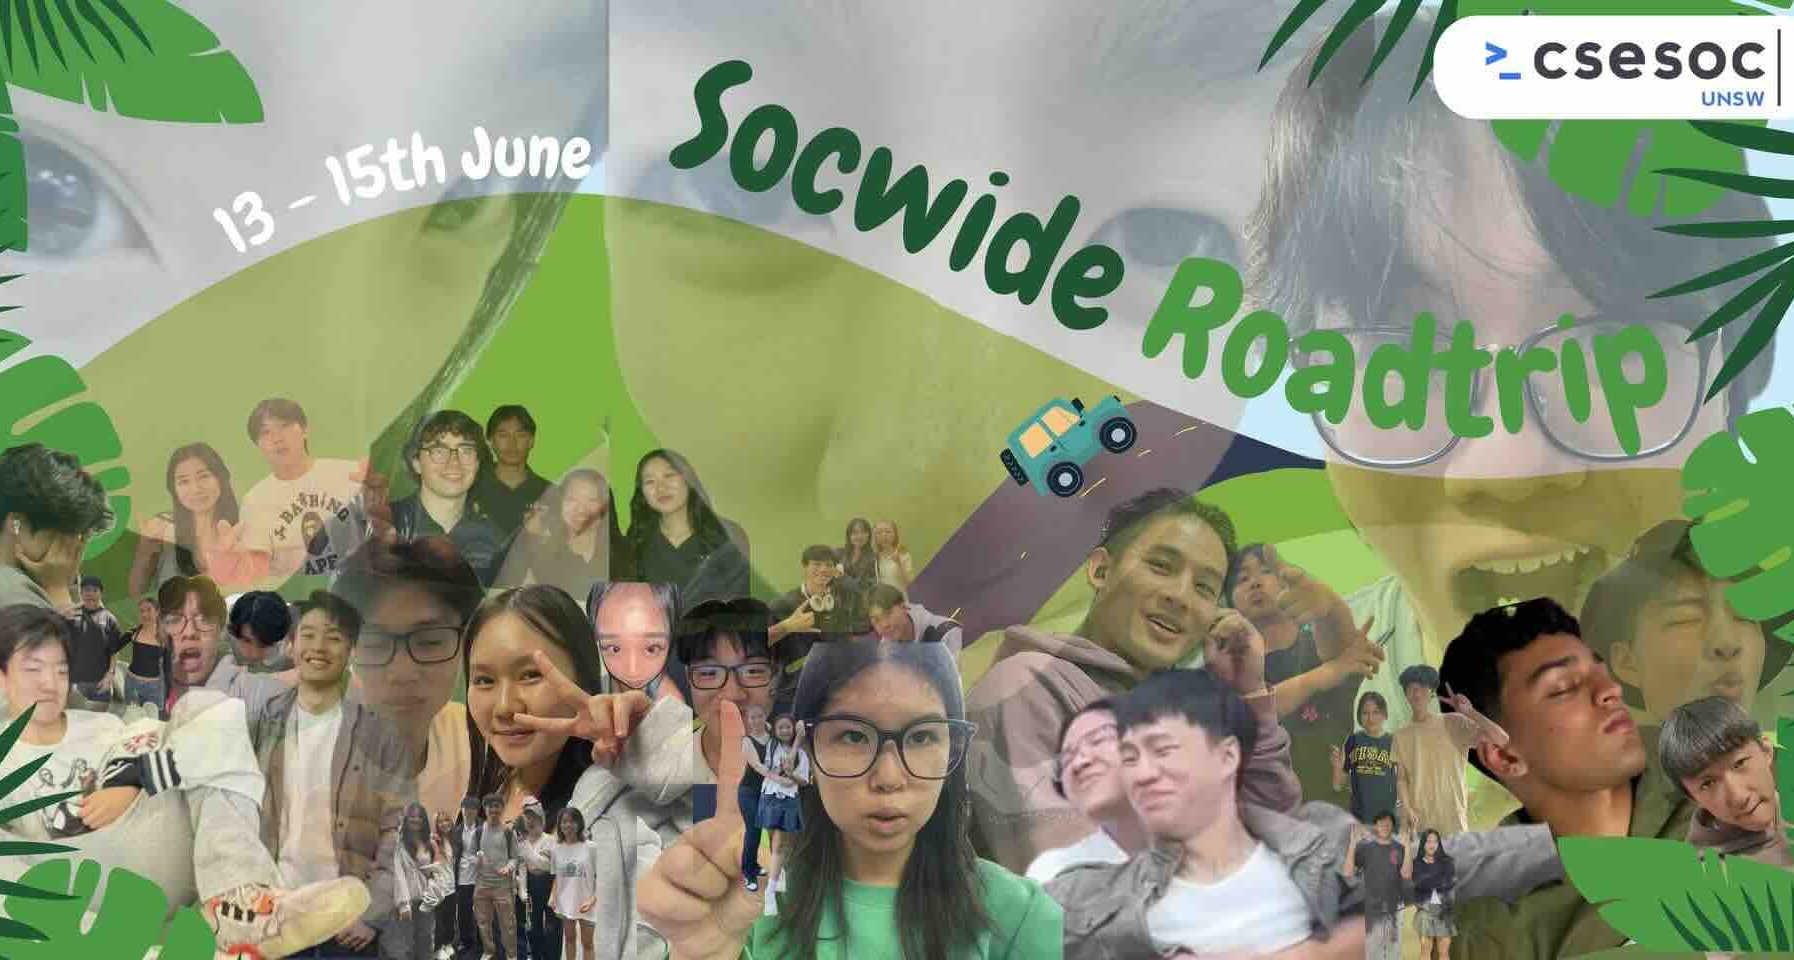
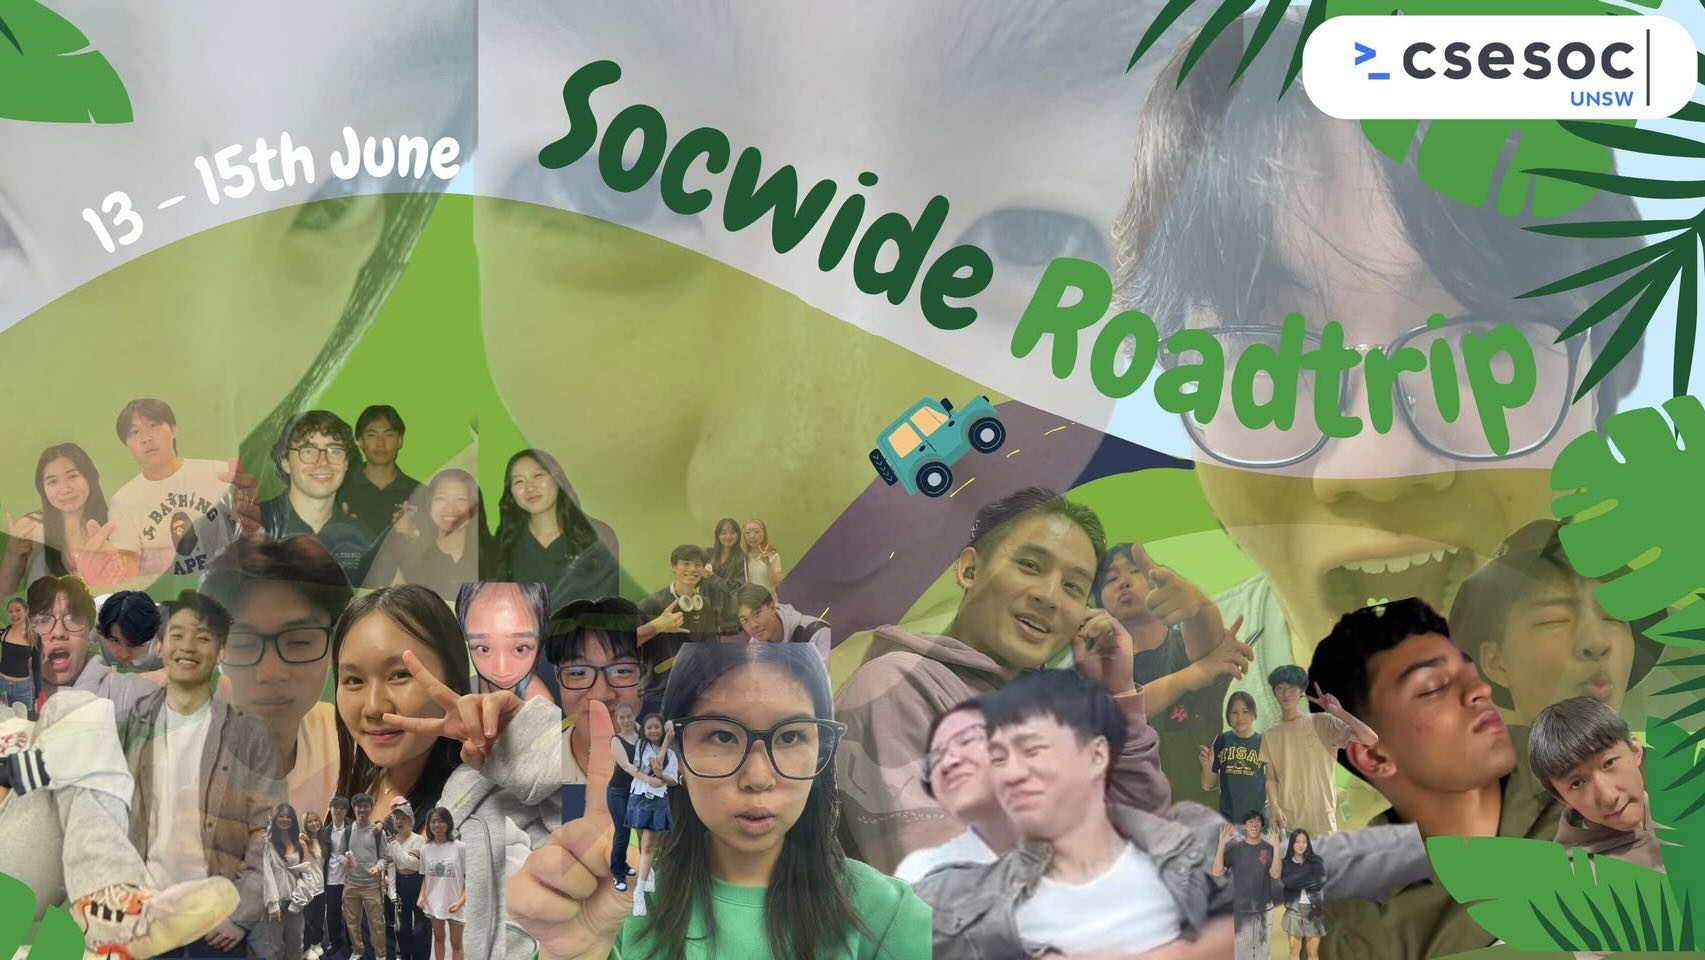
Fixing images + basic styling

diff --git a/css/style.css b/css/style.css
@@ -489,7 +489,7 @@ body.lightbox-open { overflow: hidden; }
 .memory-lightbox-content { position: relative; z-index: 1; width: min(900px,90vw); max-height: 90vh; display: flex; flex-direction: column; align-items: center; }
 .memory-lightbox-content img { display: block; max-width: 100%; max-height: 78vh; width: auto; height: auto; object-fit: contain; border-radius: 4px; box-shadow: 0 20px 60px rgba(0,0,0,.3); }
 .memory-lightbox-caption { margin-top: 16px; color: white; font-size: 15px; line-height: 1.5; text-align: center; max-width: 750px; text-shadow: 0 1px 3px rgba(0,0,0,.35); }
-.memory-lightbox-close { position: absolute; top: -44px; right: -4px; width: 36px; height: 36px; padding: 0; border: 0; background: transparent; color: white; font-size: 34px; font-weight: 300; line-height: 1; cursor: pointer; z-index: 2; }
+.memory-lightbox-close { display: none; position: absolute; top: -44px; right: -4px; width: 36px; height: 36px; padding: 0; border: 0; background: transparent; color: white; font-size: 34px; font-weight: 300; line-height: 1; cursor: pointer; z-index: 2; }
 .memory-lightbox-close:hover { opacity: .7; }
 @media (max-width:700px) { .memory-lightbox { padding:25px; } .memory-lightbox-content { width:94vw; } .memory-lightbox-content img { max-height:72vh; } .memory-lightbox-close { top:-42px; right:0; } .memory-lightbox-caption { font-size:14px; margin-top:12px; } }
 
@@ -564,19 +564,37 @@ body.lightbox-open { overflow: hidden; }
 .event-lightbox-button { grid-row: 2; flex: 0 0 44px; width: 44px; height: 44px; border: 1px solid rgba(255,255,255,.35); border-radius: 50%; background: rgba(255,255,255,.88); color: #536475; font-size: 20px; line-height: 1; cursor: pointer; z-index: 2; transition: background .2s ease, color .2s ease, opacity .2s ease; }
 .event-lightbox-button:hover:not(:disabled) { background: #263b4b; color: white; }
 .event-lightbox-button:disabled { opacity: .25; cursor: default; }
-.event-lightbox-close { position: absolute; top: -50px; right: 0; width: 38px; height: 38px; padding: 0; border: 0; background: transparent; color: white; font-size: 36px; font-weight: 300; line-height: 1; cursor: pointer; z-index: 3; }
+.event-lightbox-close { display: none; position: absolute; top: -50px; right: 0; width: 38px; height: 38px; padding: 0; border: 0; background: transparent; color: white; font-size: 36px; font-weight: 300; line-height: 1; cursor: pointer; z-index: 3; }
 .event-lightbox-close:hover { opacity: .7; }
-.event-lightbox-counter {
+.event-lightbox-dots {
     grid-column: 2;
     grid-row: 3;
-    position: static;
-    transform: none;
-    justify-self: center;
-    margin-top: 13px;
-    color: rgba(255,255,255,.78);
-    font-size: 13px;
-    letter-spacing: .5px;
-    text-shadow: 0 1px 3px rgba(0,0,0,.35);
+    display: flex;
+    align-items: center;
+    justify-content: center;
+    gap: 7px;
+    margin-top: 15px;
+}
+
+.event-lightbox-dot {
+    width: 7px;
+    height: 7px;
+    padding: 0;
+    border: 0;
+    border-radius: 999px;
+    background: rgba(255,255,255,.48);
+    cursor: pointer;
+    transition: width .25s ease, height .25s ease, background .25s ease, transform .25s ease;
+}
+
+.event-lightbox-dot:hover {
+    background: rgba(255,255,255,.8);
+}
+
+.event-lightbox-dot.active {
+    width: 22px;
+    height: 7px;
+    background: white;
 }
 @media (max-width:700px) {
     .event-lightbox { padding: 25px; }
@@ -592,7 +610,7 @@ body.lightbox-open { overflow: hidden; }
     .event-lightbox-button { flex-basis: 34px; width: 34px; height: 34px; font-size: 15px; }
     .event-lightbox-track img { height: 100%; }
     .event-lightbox-close { top: -45px; right: 0; }
-    .event-lightbox-counter { margin-top: 10px; }
+    .event-lightbox-dots { margin-top: 12px; gap: 6px; } .event-lightbox-dot { width: 6px; height: 6px; } .event-lightbox-dot.active { width: 18px; height: 6px; }
 }
 
 
@@ -760,6 +778,7 @@ body.lightbox-open { overflow: hidden; }
 }
 
 .intro-video-lightbox-close {
+    display: none;
     position: absolute;
     top: -48px;
     right: -4px;
@@ -795,6 +814,7 @@ body.lightbox-open { overflow: hidden; }
     }
 
     .intro-video-lightbox-close {
+    display: none;
         top: -44px;
         right: 0;
     }

diff --git a/index.html b/index.html
@@ -197,7 +197,7 @@
             <h2>Events + Initiatives</h2>
 
             <p>
-                Here are some events that HR have hosted over the past two years:
+                Here are some events that HR have hosted over the past two years (you can click on the images):
             </p>
 
             <div class="events-gallery" aria-label="Events and initiatives">
@@ -473,7 +473,7 @@
             <button class="event-lightbox-button next" type="button"
                     aria-label="Next photo">&#10095;</button>
 
-            <div class="event-lightbox-counter" id="eventLightboxCounter">1 / 5</div>
+            <div class="event-lightbox-dots" id="eventLightboxDots" aria-label="Photo navigation"></div>
         </div>
     </div>
 
@@ -534,7 +534,7 @@
         const eventLightboxBackdrop = eventLightbox.querySelector('.event-lightbox-backdrop');
         const eventPrevButton = eventLightbox.querySelector('.event-lightbox-button.prev');
         const eventNextButton = eventLightbox.querySelector('.event-lightbox-button.next');
-        const eventCounter = document.getElementById('eventLightboxCounter');
+        const eventDots = document.getElementById('eventLightboxDots');
 
         // Change these filenames to the images belonging to each event.
         // Each inner array represents ONE event's carousel.
@@ -681,8 +681,16 @@
             eventLightboxTrack.style.transform =
                 `translateX(-${eventCurrentIndex * 100}%)`;
 
-            eventCounter.textContent =
-                `${eventCurrentIndex + 1} / ${currentEventPhotos.length}`;
+            eventDots.innerHTML = currentEventPhotos.map((_, index) =>
+                `<button class="event-lightbox-dot${index === eventCurrentIndex ? ' active' : ''}" type="button" aria-label="Go to photo ${index + 1}" data-index="${index}"></button>`
+            ).join('');
+
+            eventDots.querySelectorAll('.event-lightbox-dot').forEach((dot) => {
+                dot.addEventListener('click', () => {
+                    eventCurrentIndex = Number(dot.dataset.index);
+                    updateEventLightbox();
+                });
+            });
 
             eventCaption.textContent = eventData[activeEventIndex].descriptions[eventCurrentIndex];
 
